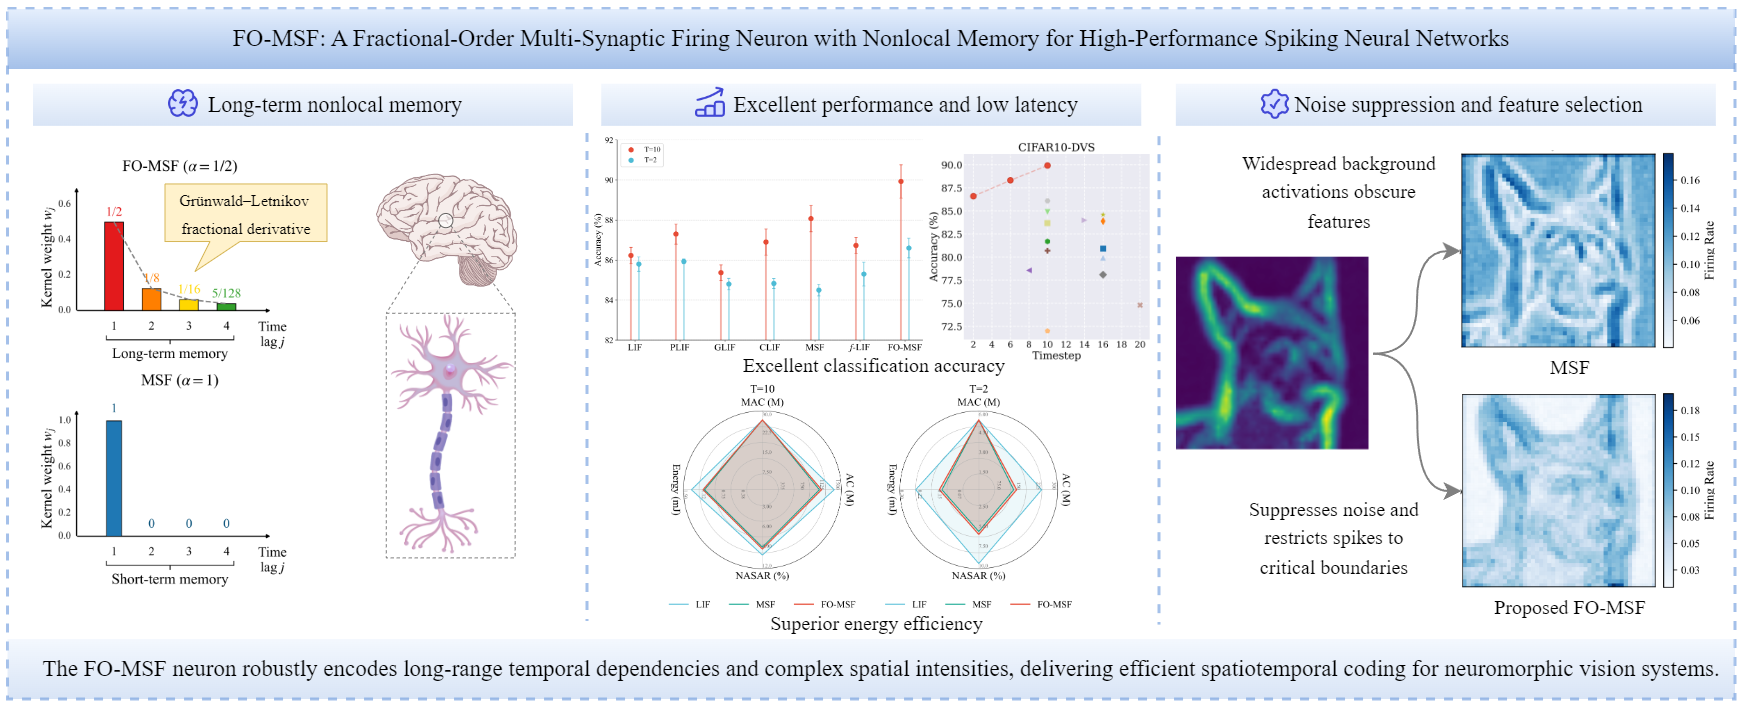
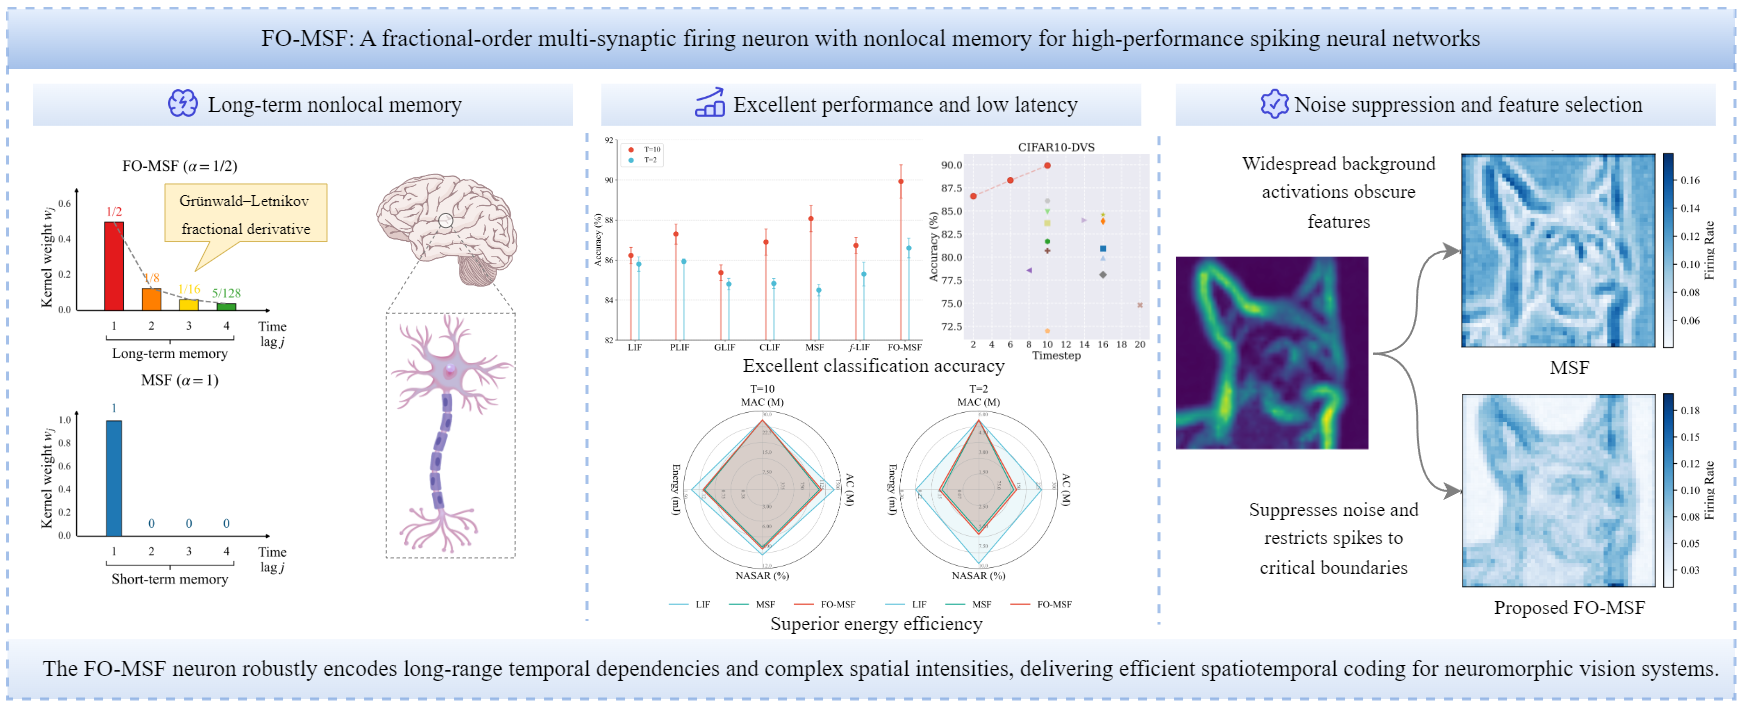
update

Changed region(s): [[0.1239, 0.0312, 0.867, 0.0935]]

diff --git a/README.md b/README.md
@@ -1,5 +1,5 @@
 <div align="center" style="font-family: charter;">
-<h1>FO-MSF: A Fractional-Order Multi-Synaptic Firing Neuron with Nonlocal Memory for High-Performance Spiking Neural Networks</h1>
+<h1>FO-MSF: A fractional-order multi-synaptic firing neuron with nonlocal memory for high-performance spiking neural networks</h1>
 
 <div align="center" style="line-height: 2;">
   <a href="LICENSE" style="margin: 2px;">
@@ -14,7 +14,7 @@
 
 ## Graphical abstract
 
-- This is the repository for paper *FO-MSF: A Fractional-Order Multi-Synaptic Firing Neuron with Nonlocal Memory for High-Performance Spiking Neural Networks*.
+- This is the repository for paper *FO-MSF: A fractional-order multi-synaptic firing neuron with nonlocal memory for high-performance spiking neural networks*.
 
 
 